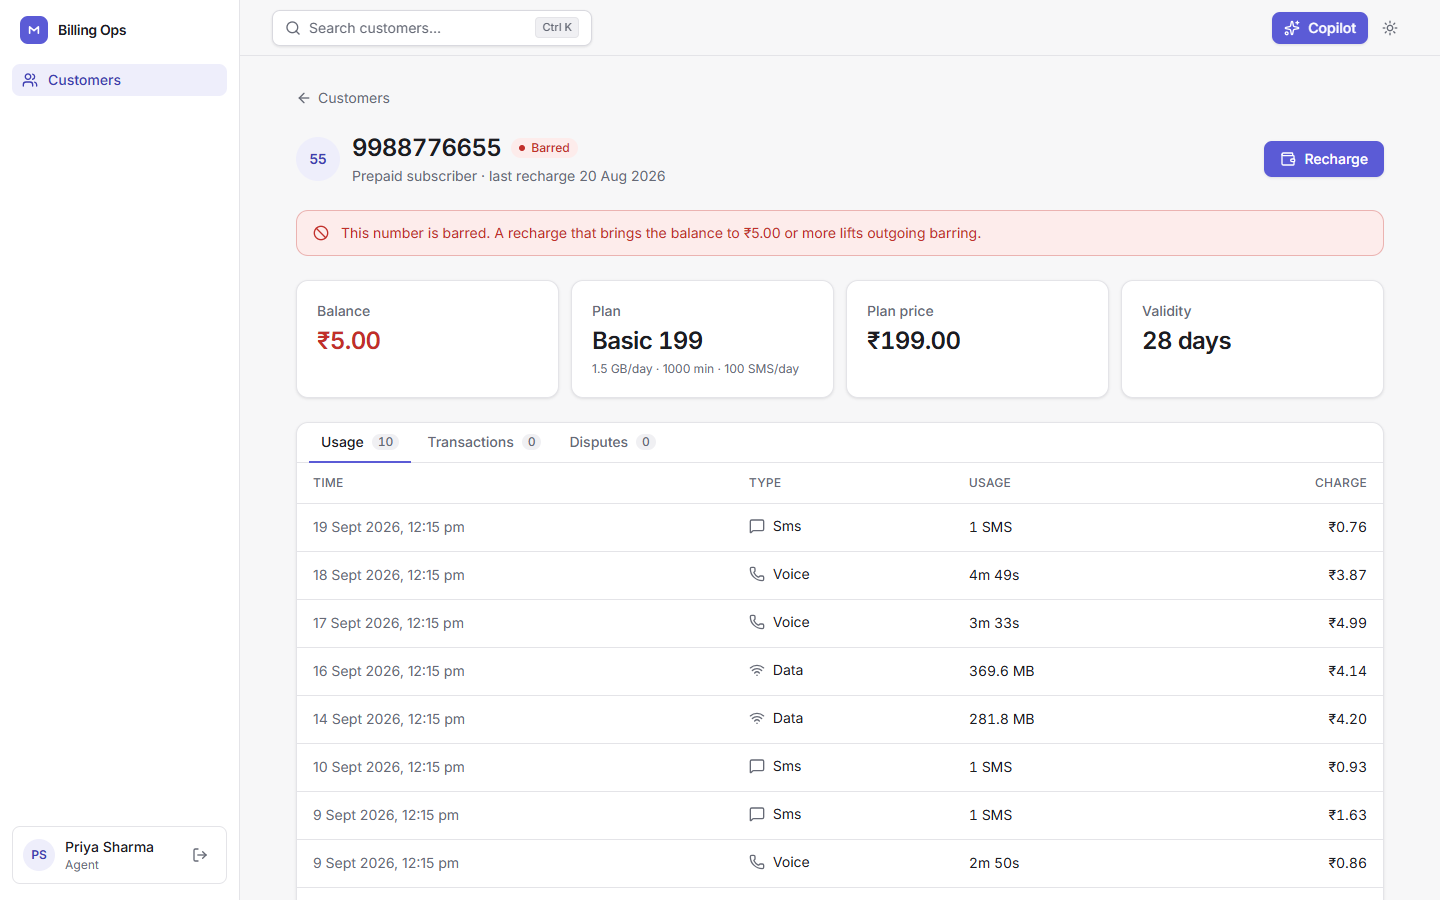
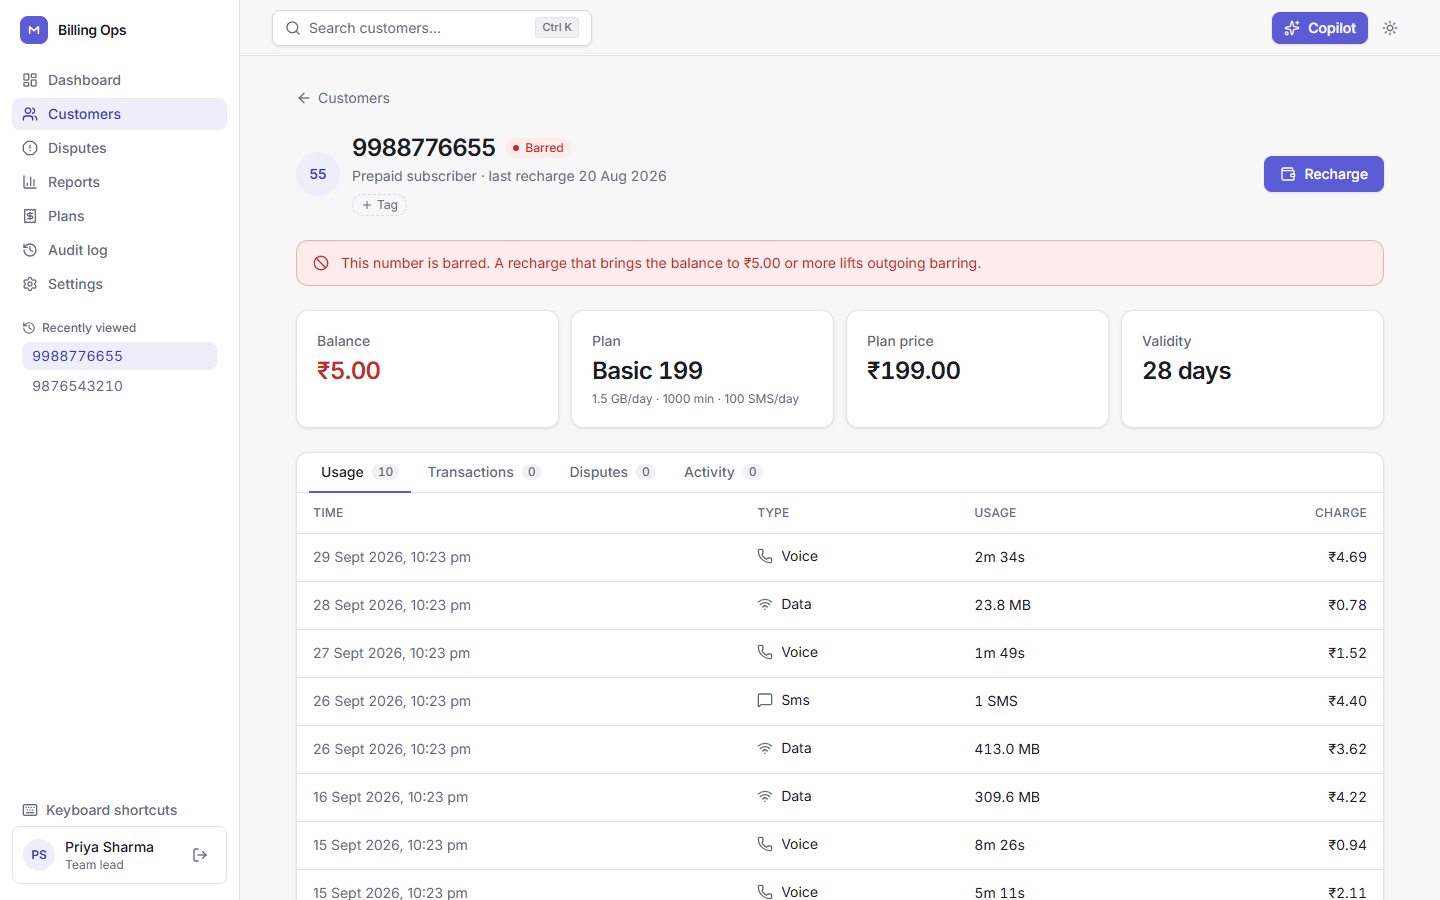
Refresh README screenshots for the new pages; mark architecture.md as the historical Phase 0-8 plan
README:
- New screenshots for Dashboard, Reports, Plans and Audit log (docs/capture_screenshots.py extended to visit
  them, signed in as a team lead so the role-gated Plans buttons show active); regenerated the whole gallery for
  consistency and rebuilt walkthrough.gif with a few of the new frames.
- Fixed a bug in the capture script itself: signing in from a customer-page URL returns there, not to
  /dashboard, so the "00_dashboard" shot was silently capturing the customer page. Now navigates there
  explicitly. Caught by actually looking at the captured image, not by the script exiting cleanly.

architecture.md: added a status note up top. It is the original Phase 0-8 build plan (Streamlit, single Python
backend); Phase 9 replaced that front end and split the backend, and this round added a dashboard, dispute
workspace, profiles/tags/notes, an activity timeline, a plan catalog, an audit log, roles and Settings, none of
which this document describes. Points to README.md for the current architecture and feature set. Also corrected
an overclaim in that note before it went in: the router and Test-Gen prompt templates in section 10 were
rewritten and no longer match the real prompts (the RAG/billing/dispute/escalation/moderation ones are closer).

diff --git a/docs/capture_screenshots.py b/docs/capture_screenshots.py
@@ -52,7 +52,15 @@ async def main(copilot: bool) -> None:
         await c.wait_for_text("Sign in to look up customers")
         shots["01_login"] = await c.screenshot("01_login")
         await c.fill("#name", "Priya Sharma")
+        await c.click('label:has-text("Team lead")')  # so the role-gated pages (Plans) show the active buttons too
         await c.click(tid("login-submit"))
+        # Signing in from a customer-page URL returns there, not to /dashboard; visit it explicitly for the shot.
+        await c.navigate(f"{URL}/dashboard")
+        await c.wait_for_text("Today, at a glance.")
+        await c._call("browser_wait_for", time=1)  # let the KPIs and the chart finish loading
+        shots["00_dashboard"] = await c.screenshot("00_dashboard")
+
+        await c.navigate(f"{URL}/customers/{BASIC}")
         await c.wait_for_text("Prepaid subscriber")
         shots["03_customer_360"] = await c.screenshot("03_customer_360")
 
@@ -88,6 +96,24 @@ async def main(copilot: bool) -> None:
 
         await set_theme(c, "dark")
         shots["10_customer_dark"] = await c.screenshot("10_customer_dark")
+        await set_theme(c, "light")
+
+        await c.navigate(f"{URL}/reports")
+        await c.wait_for_text("Recharge revenue")
+        await c._call("browser_wait_for", time=1)  # let the chart finish drawing
+        shots["14_reports"] = await c.screenshot("14_reports")
+
+        await c.navigate(f"{URL}/plans")
+        await c.wait_for_text("Plans")
+        shots["15_plans"] = await c.screenshot("15_plans")
+
+        await c.navigate(f"{URL}/audit")
+        await c.wait_for_text("Audit log")
+        shots["16_audit"] = await c.screenshot("16_audit")
+
+        await c.navigate(f"{URL}/settings")
+        await c.wait_for_text("Copilot connection")
+        shots["17_settings"] = await c.screenshot("17_settings")
 
         if copilot:
             await c.click(tid("copilot-open"))

diff --git a/docs/make_gif.py b/docs/make_gif.py
@@ -8,9 +8,10 @@ from PIL import Image
 
 IMAGES = os.path.join(os.path.dirname(__file__), "images")
 FRAMES = [
-    "01_login.png", "02_customers.png", "03_customer_360.png", "05_customer_barred.png", "06_command_palette.png",
-    "07_recharge_details.png", "08_recharge_review.png", "09_recharge_receipt.png", "10_customer_dark.png",
-    "12_copilot_answer.png", "13_copilot_browser_test.png",
+    "01_login.png", "00_dashboard.png", "02_customers.png", "03_customer_360.png", "05_customer_barred.png",
+    "06_command_palette.png", "07_recharge_details.png", "08_recharge_review.png", "09_recharge_receipt.png",
+    "10_customer_dark.png", "14_reports.png", "15_plans.png", "16_audit.png", "12_copilot_answer.png",
+    "13_copilot_browser_test.png",
 ]
 WIDTH = 1000  # keeps the file small enough to embed in a README
 

diff --git a/architecture.md b/architecture.md
@@ -4,6 +4,21 @@
 **Domain:** Prepaid telecom billing (CDR, rating, recharge, disputes)
 **Purpose:** Portfolio project demonstrating RAG, LangChain, LangGraph, Langflow, DeepEval, a moderation layer, and Playwright MCP-based autonomous UI testing.
 
+> **Status: this is the original build plan (Phases 0–8), kept as a historical record — not the current architecture.**
+> Phase 9 replaced the Streamlit console this document describes with a React + TypeScript front end, split the
+> backend into a Node/TypeScript billing and web tier plus a FastAPI AI service, and added a CRM feature set none of
+> this plan covers: a dashboard, a cross-customer dispute workspace with SLA tracking, customer profiles/tags/notes,
+> an activity timeline, a plan catalog, an audit log, role-based actions, and a Settings page. `ui/` and
+> `deploy/app.py`, which section 18 below gives full source for, no longer exist in the tree (last present at commit
+> `c33fe84`); the reference code in section 18 for those files is accurate only up to that commit. **For the
+> architecture and feature set as they actually stand, see [README.md](README.md)** (the Architecture, "The rest of
+> the console" and Repository sections). This document is still useful for the reasoning behind the earlier phases
+> (Phases 0–7: the mock billing API, the RAG chain, the LangGraph agents, moderation, DeepEval, the browser QA
+> agent). Of the prompt templates in section 10, the RAG, billing, dispute, escalation and moderation prompts
+> (10.3–10.6, 10.8) are close to what `agents/` still runs; the router (10.2) and Test-Gen (10.7) ones are not —
+> both were substantially rewritten since (the router to fix routing bugs, Test-Gen for the React console's
+> `data-testid` selectors and sign-in step) — read the real files for those two, not this section.
+
 ---
 
 ## 1. System Overview

diff --git a/README.md b/README.md
@@ -23,9 +23,17 @@ domain (rating, CDRs, recharges, disputes) I know well.
 *The walkthrough is a slideshow of the real screenshots below (captured with the same Playwright MCP client the QA agent
 uses), not a screen recording.*
 
-| Customers | Customer 360 |
+| Dashboard | Customers |
 |---|---|
-| ![](docs/images/02_customers.png) | ![](docs/images/03_customer_360.png) |
+| ![](docs/images/00_dashboard.png) | ![](docs/images/02_customers.png) |
+
+| Customer 360 | Reports |
+|---|---|
+| ![](docs/images/03_customer_360.png) | ![](docs/images/14_reports.png) |
+
+| Plan catalog | Audit log |
+|---|---|
+| ![](docs/images/15_plans.png) | ![](docs/images/16_audit.png) |
 
 | Recharge: review step | Barred customer |
 |---|---|
